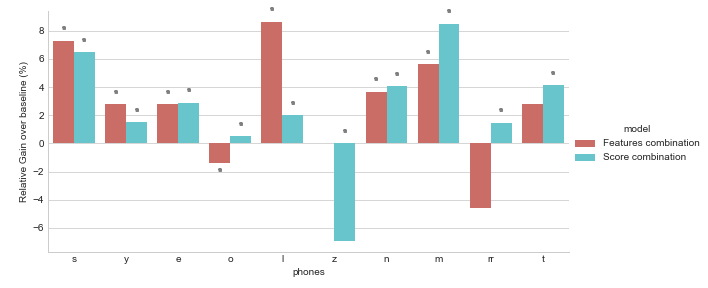
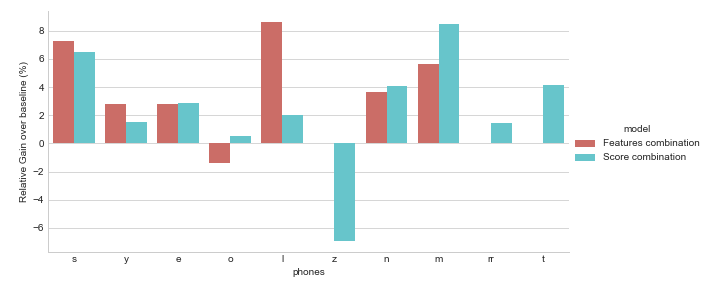
Removidas referencias de significancia estadistica (*) en los plots de la sección Model Validation

Changed region(s): [[0.6525, 0.5, 0.7147, 0.7188], [0.7147, 0.3438, 0.7768, 0.5], [0.5282, 0.25, 0.5593, 0.2812]]

diff --git a/files/results/results.tex b/files/results/results.tex
@@ -335,7 +335,7 @@ results are statistically significant.
 
 The results for all the phones are summarized in the left side of both tables
 \ref{tab:featuresCombinationAppendixTable} and \ref{tab:scoreCombinationAppendixTable}
-of the Appendix A Section. Rows with grey background corresponds to the phones for which
+of the Appendix. Rows with grey background corresponds to the phones for which
 the McNemar's test gives significant results in the development set, which are the
 phones of interest. Those are:
 
@@ -346,19 +346,13 @@ phones of interest. Those are:
 
 The relative gains for the phones mentioned above are summarized in
 Fig. \ref{fig:fusionMcnemarDev}.
-A visual reference (*) is added on top of each bar to indicate if that value
-is statistically significant.
-It is worth noting that phones with statistically significant results in the Features
-Combination experiment are a subset of the phone with statistically significant results in the
-Score Combination experiment. For that reason, all the bars of the Score Combination experiment
-have a visual reference (*) on top, but some of the bars of the Features Combination do not
-have it.
-
-% even though the barplots includes
-% the results for the ten statistically significant phonemes of the Score Combination,
-% additional marks (*) and (**) are included for the Features Combination bars to
-% point out whether or not those results are significant in the Features Combination
-% case.
+It is worth noting that phones with statistically significant results in
+the Score Combination experiment are a superset of the phones with statistically
+significant results in the Features Combination experiment.
+Three of the phones (/z/, /rr/, /t/) give statistically significant results
+when combining the scores but not when combining the features.
+For that reason, only the bars associated with the Score Combination results are
+included for those phones.
 
 \begin{figure}[H]
 	\centering
@@ -366,16 +360,28 @@ have it.
 	\caption{Comparison of relative gains over the Baseline System
 	between the Features Combination systems
 	and the Score Combination systems
-	computed on the development set. Results are sorted descendently by McNemar's p-value.
-	A visual reference (*) is added on top of the bars
-	for each \textless phone, fusion type\textgreater \ pair that produces
-	statistically significant results.}
-
-	% For all the score combinations phones the results were significant in the training set,
-	% whereas for the features combination phones only the phones marked with (*) were significant,
-	% and those marked with (**) weren't significant.
+	computed on the development set. Results are sorted descendently by McNemar's p-value.}
 	\label{fig:fusionMcnemarDev}
 \end{figure}
+
+% \begin{figure}[H]
+%   \centering
+%   \begin{subfigure}{.47\textwidth}
+%     \centering
+%     \captionsetup{width=.95\linewidth}
+%     \includegraphics[width=.95\linewidth]{files/figures/results/bootstrapping/bootstrapping_dev_2}
+%     \caption{}
+%     \label{}
+%   \end{subfigure}
+%   \begin{subfigure}{.47\textwidth}
+%     \centering
+%     \captionsetup{width=.95\linewidth}
+%     \includegraphics[width=.95\linewidth]{files/figures/results/bootstrapping/bootstrapping_dev_1}
+%     \caption{}
+%     \label{}
+%   \end{subfigure}
+% \end{figure}
+
 
 \subsection{Hold-out results}
 
@@ -387,28 +393,17 @@ significant results in the development set.
 The obtained results for all the phones, however, is available
 in the right side of both tables
 \ref{tab:featuresCombinationAppendixTable} and \ref{tab:scoreCombinationAppendixTable}
-of the Appendix A Section.
+of the Appendix.
 Even though a new McNemar test is computed on the
 results obtained in the hold-out data, it does not yield statistically significant results
 for our phones of interest. This can be explained by the fact that hold-out data
 has around 1/4 of the data of the
 development data, affecting the efectiveness of the test.
 
-% To run the experiment against the heldout data, the models were trained using all the
-% instances of the development set.
-
-% A new McNemar test is performed for the results obtained
-% in the heldout data for the same phoneme with statistically significant results in the
-% development data, but this time any of them gave a significant p-value $<$ 0.05.
-% This can be explained by the fact that heldout data has around 1/4 of the data of the
-% development data, affecting the efectiveness of the test.
-
-% The results are then still scoped to the phonemes with statistically significant results
-% in the development experiment, and the same notation (*) and (**) is kept as a reference.
-
 The relative gains for the phones of interest are summarized in Fig. \ref{fig:fusionMcnemarTest}.
-Again, a visual reference (*) is added on top of each bar to indicate the cases were the
-values obtained in the development set were statistically significant.
+Again, the bars for the three phones (/z/, /rr/, /t/) that gave statistically significant
+results when combining the scores but not when combininig the features in the development
+set are only included for the Score Combination experiment.
 
 \begin{figure}[H]
 	\centering
@@ -416,10 +411,7 @@ values obtained in the development set were statistically significant.
 	\caption{Comparison of relative gains over the Baseline System
 	between Features Combination systems and Score Combination
 	systems computed on the hold-out set for the phones of interest.
-	Results are sorted descendently by their McNemar's p-value computed on the development set.
-	A visual reference (*) is added on top of the bars
-	for each \textless phone, fusion type\textgreater \ pair that produced
-	statistically significant results in the development set.}
+	Results are sorted descendently by their McNemar's p-value computed on the development set.}
 	\label{fig:fusionMcnemarTest}
 \end{figure}
 
@@ -433,13 +425,29 @@ as /m/ improves its performance from 6\% to more than 8\%.
 On the other hand, results show that
 for the phones that were statistically significant in the
 Features Combination experiment carried out in the development set, only /o/ degrades
-its performance and in a slightly way. The plots also show a degradation of the /rr/
-performance, but /rr/ did not yield statistically significant
-in the Features Combination
-experiment carried out in the development set.
+its performance and in a slightly way.
 Among the remaining phones, for the Features Combination experiment,
 there are cases where both improvements
 and degradations of the performance are observed.
+
+% \begin{figure}[H]
+%   \centering
+%   \begin{subfigure}{.47\textwidth}
+%     \centering
+%     \captionsetup{width=.95\linewidth}
+%     \includegraphics[width=.95\linewidth]{files/figures/results/bootstrapping/bootstrapping_heldout_2}
+%     \caption{}
+%     \label{}
+%   \end{subfigure}
+%   \begin{subfigure}{.47\textwidth}
+%     \centering
+%     \captionsetup{width=.95\linewidth}
+%     \includegraphics[width=.95\linewidth]{files/figures/results/bootstrapping/bootstrapping_heldout_1}
+%     \caption{}
+%     \label{}
+%   \end{subfigure}
+% \end{figure}
+
 
 % One important aspect to be analysed in the next section is whether or not the Score Combination
 % of the results leads to a more robust classifier than the Features Combination technique.
